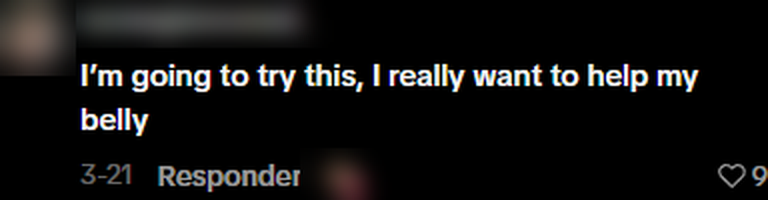
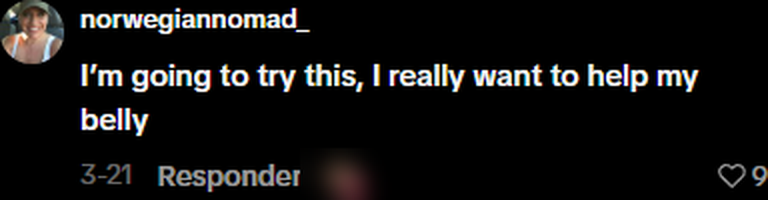
Toalha: prints de comentários com nome e foto (autorizados pelas autoras)

Changed region(s): [[0.0, 0.0, 0.4062, 0.39]]

diff --git a/toalha/prova.js b/toalha/prova.js
@@ -14,17 +14,19 @@ window.PROVA = {
     frase:  ''    // fala curta dela, entre aspas, ex.: 'A toalha certa no ponto certo muda tudo.'
   },
 
-  /* PRINTS de comentários REAIS em vídeos da técnica no TikTok (18/11/2026),
-     com nome e foto de perfil borrados. img = print; trad = tradução (vazio se já é PT).
+  /* PRINTS de comentários REAIS em vídeos da técnica no TikTok (18/11/2026).
+     Nome e foto à mostra: o usuário informou em 18/11/2026 que cada autora autorizou o uso.
+     Guardar os prints dessas autorizações. Comentário NOVO só entra com nome/foto se também autorizar.
+     img = print; trad = tradução (vazio se já é PT).
      c1–c4: vídeo @harmoniehernandez1/7619790114381745421 (1,5 mi curtidas)
      c5:    vídeo @uaimo_/7699244235203071253 (Brasil)
      Se img estiver vazio, mostra o texto t como cartão. */
   comentarios: [
-    { img: 'img/cmt-c1.png', w: 768, h: 200, trad: 'Começo amanhã ✨ Te vejo em 30 dias com a minha atualização ✨' },
-    { img: 'img/cmt-c3.png', w: 768, h: 200, trad: 'Eu fazia isso há alguns anos e posso te dizer: funciona!!' },
-    { img: 'img/cmt-c5.png', w: 768, h: 156, trad: '' },
-    { img: 'img/cmt-c2.png', w: 768, h: 200, trad: 'Vou tentar, quero muito ajudar a minha barriga.' },
-    { img: 'img/cmt-c4.png', w: 768, h: 288, trad: 'Dói nos braços e ombros, mas sei que é porque eu preciso! Sinto que está me realinhando. Fiz por alguns dias e estou animada pra continuar.' }
+    { img: 'img/cmt-c1.png?v=2', w: 768, h: 200, trad: 'Começo amanhã ✨ Te vejo em 30 dias com a minha atualização ✨' },
+    { img: 'img/cmt-c3.png?v=2', w: 768, h: 200, trad: 'Eu fazia isso há alguns anos e posso te dizer: funciona!!' },
+    { img: 'img/cmt-c5.png?v=2', w: 768, h: 156, trad: '' },
+    { img: 'img/cmt-c2.png?v=2', w: 768, h: 200, trad: 'Vou tentar, quero muito ajudar a minha barriga.' },
+    { img: 'img/cmt-c4.png?v=2', w: 768, h: 288, trad: 'Dói nos braços e ombros, mas sei que é porque eu preciso! Sinto que está me realinhando. Fiz por alguns dias e estou animada pra continuar.' }
   ],
 
   /* Depoimentos de CLIENTES do plano. Só com autorização por escrito.
@@ -56,7 +58,7 @@ window.cmtHTML = function (c) {
     (c.trad ? '<figcaption>🇧🇷 “' + e(c.trad) + '”</figcaption>' : '') + '</figure>';
   return '<div class="cmt"><p>“' + e(c.t) + '”</p><span class="cmt-l">♥ ' + e(c.l) + '</span></div>';
 };
-window.CMT_FONTE = '<p class="cmt-src">Prints de comentários reais em vídeos da técnica no TikTok · nomes e fotos borrados</p>';
+window.CMT_FONTE = '<p class="cmt-src">Prints de comentários reais em vídeos da técnica no TikTok · publicados com autorização</p>';
 
 /* ---------- carrossel de resultados (não mexer) ---------- */
 window.carrossel = function (titulo) {

diff --git a/toalha/vsl.html b/toalha/vsl.html
@@ -91,7 +91,7 @@
   <footer>Resultados variam de pessoa para pessoa. Este conteúdo é educativo e não substitui a orientação de um profissional de saúde.</footer>
 </main>
 
-<script src="prova.js?v=4"></script>
+<script src="prova.js?v=5"></script>
 <script>
 /* ================== CONFIGURAÇÃO ================== */
 var CONFIG = {

diff --git a/toalha/index.html b/toalha/index.html
@@ -47,7 +47,7 @@
   <div id="app"></div>
 </main>
 
-<script src="prova.js?v=4"></script>
+<script src="prova.js?v=5"></script>
 <script>
 /* ================== CONFIGURAÇÃO ================== */
 var CONFIG = {
